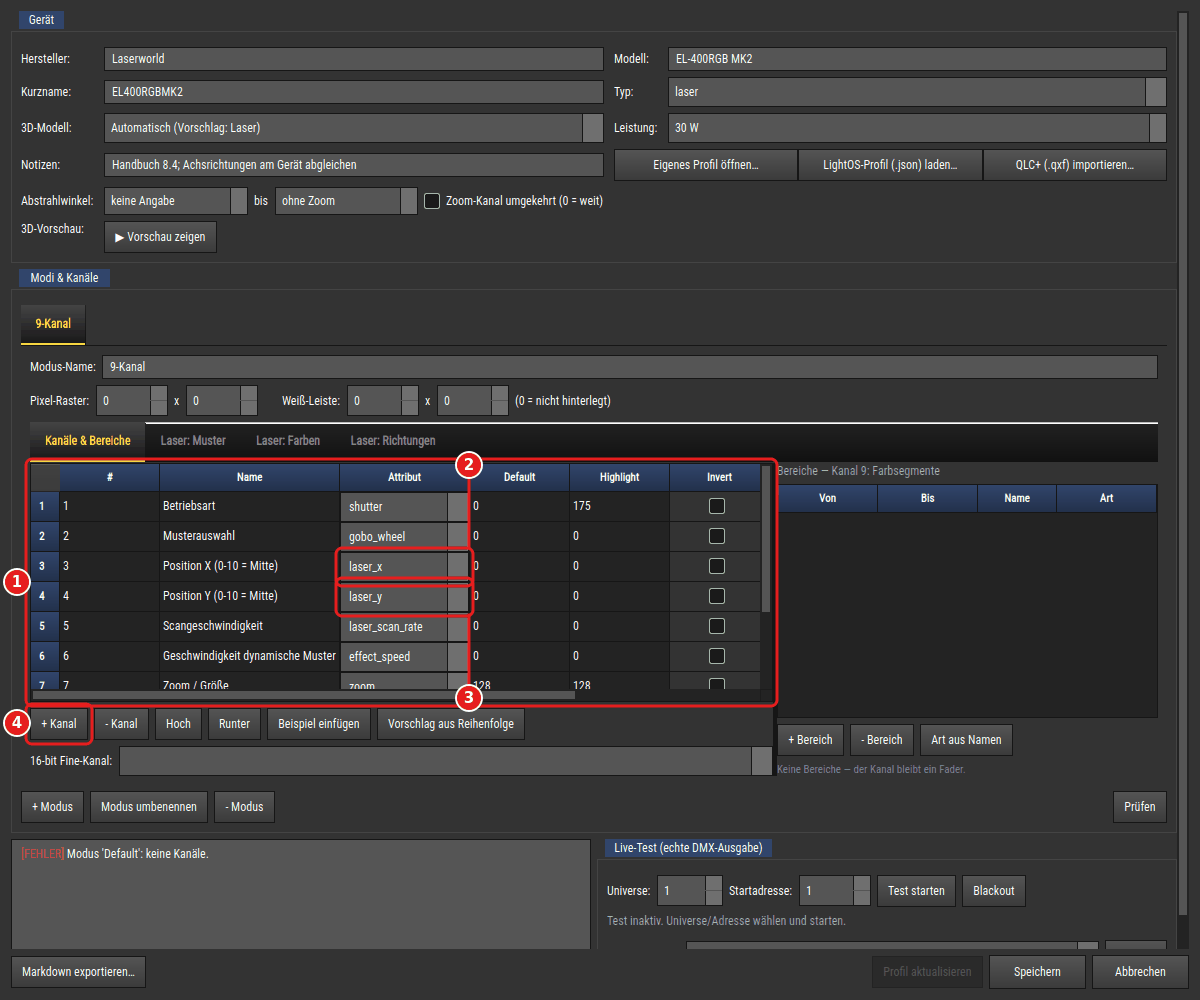
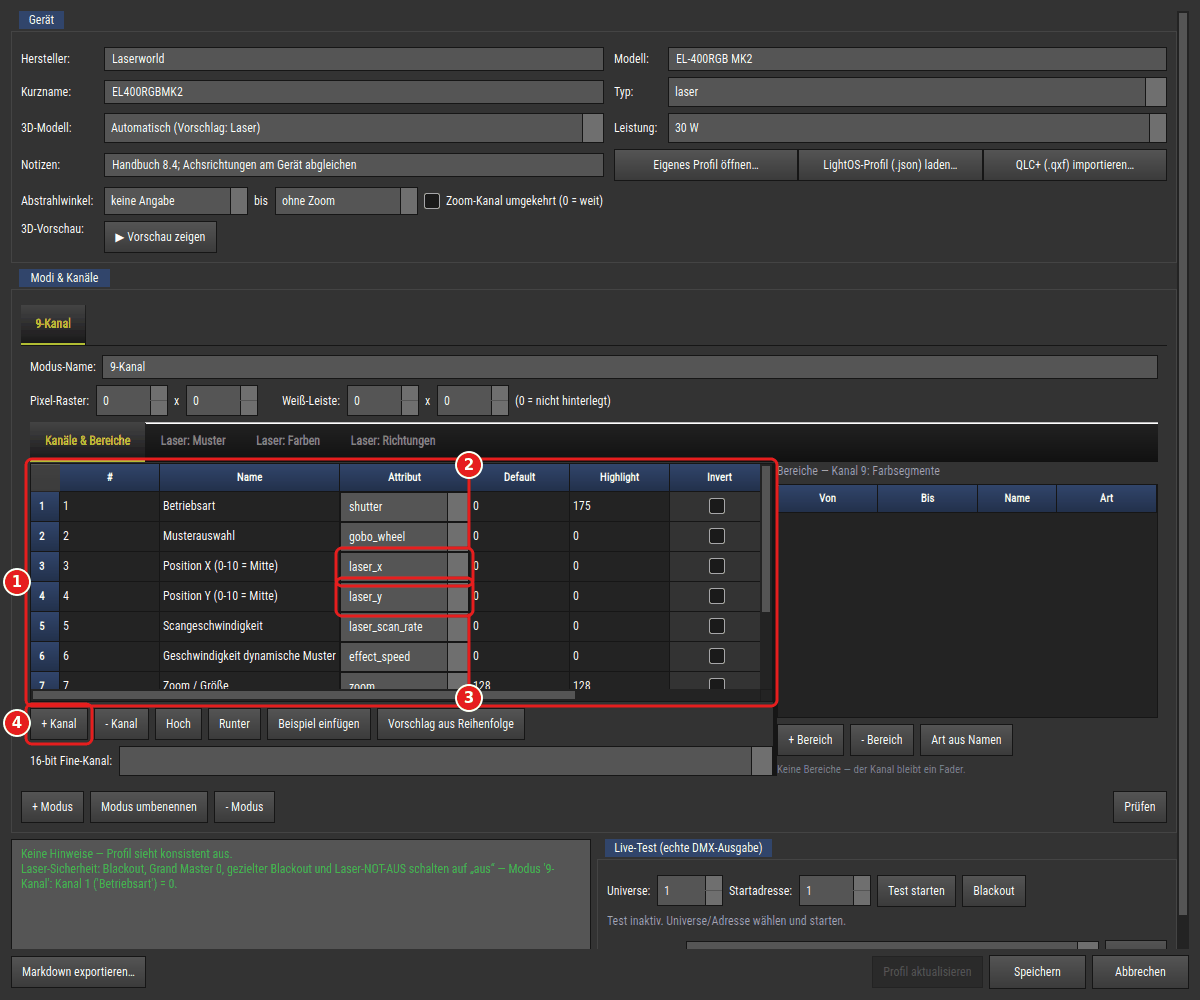
fix(generator): Nachbesserung FM-71 nach Pruefung (FM-71)
Bild 03 zeigte neben der fertigen 9-Kanal-Tabelle noch den Hinweis
"Modus 'Default': keine Kanaele" aus Bild 02: die Hinweisliste rechnet
entprellt (400 ms) nach, das Bild entstand schon nach 200 ms. Die Szene
wartet jetzt, bis der Hinweis-Timer gelaufen ist; Bild 03 neu erzeugt
(02, 04, 05 bleiben pixelgleich), md5 im Manifest nachgezogen.
Docstring von _eigenes_profil_oeffnen nennt den neuen Weg.

Changed region(s): [[0.0, 0.837, 0.185, 0.899], [0.0308, 0.434, 0.0925, 0.465], [0.0308, 0.31, 0.0617, 0.341]]

diff --git a/tools/anleitungsbilder/szenen_fixture_generator.py b/tools/anleitungsbilder/szenen_fixture_generator.py
@@ -199,6 +199,14 @@ def _dialog_bild(ui, dlg, kreise):
     from PySide6.QtCore import QRect
     from anleitungsbilder import marker
     ui.pump(0.2)
+    # FM-71 (Pruefung): die Hinweisliste rechnet entprellt nach
+    # (HINWEIS_VERZOEGERUNG_MS). Ohne Warten zeigte Bild 03 neben der fertigen
+    # 9-Kanal-Tabelle noch „Modus 'Default': keine Kanäle“ aus Bild 02.
+    timer = getattr(dlg, "_hinweis_timer", None)
+    for _ in range(50):
+        if timer is None or not timer.isActive():
+            break
+        ui.pump(0.05)
     pix = dlg.grab()
     ziele = [(r if isinstance(r, QRect) else rechteck(dlg, r), nr, lage)
              for r, nr, lage in kreise]

diff --git a/src/ui/widgets/fixture_generator.py b/src/ui/widgets/fixture_generator.py
@@ -2417,7 +2417,8 @@ class FixtureGeneratorDialog(QDialog):
     def _eigenes_profil_oeffnen(self):
         """FM-71: ein eigenes Profil (``source='user'``) aus der Fixture-DB
         laden (:func:`model_from_profile` — die Herkunft reist mit, FM-76).
-        Gespeichert wird danach wie immer ein NEUES Profil."""
+        „Speichern“ legt danach ein NEUES Profil an, „Profil aktualisieren“
+        ueberschreibt genau dieses (FM-71)."""
         try:
             profile = eigene_profile()
         except Exception as e:
